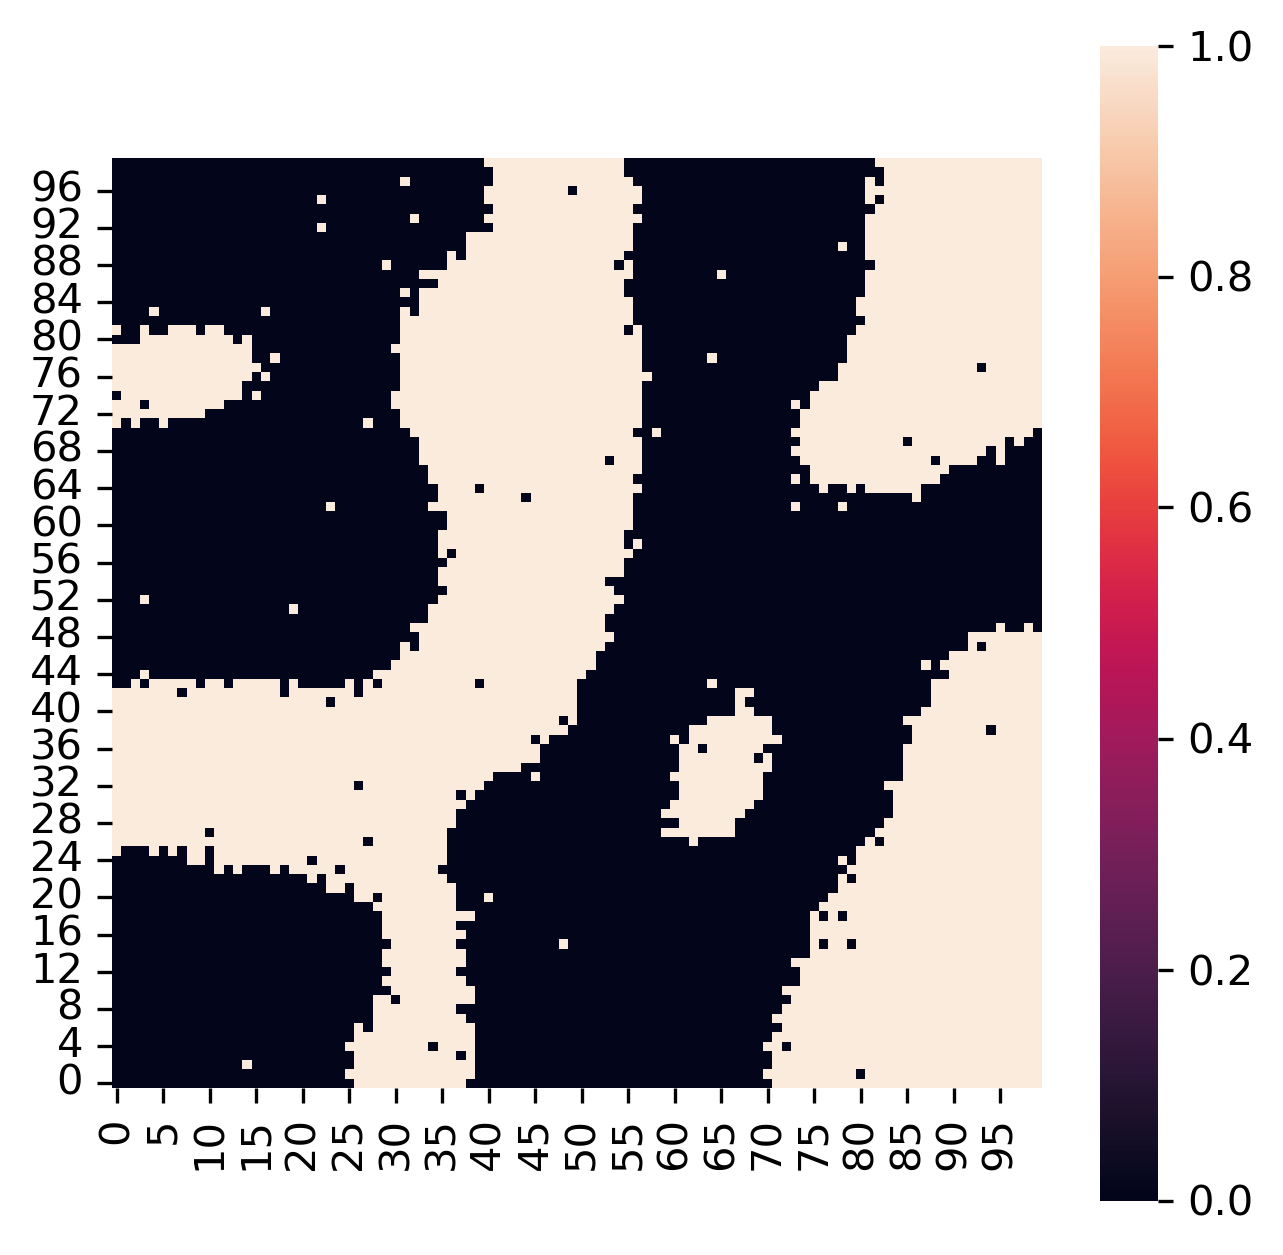
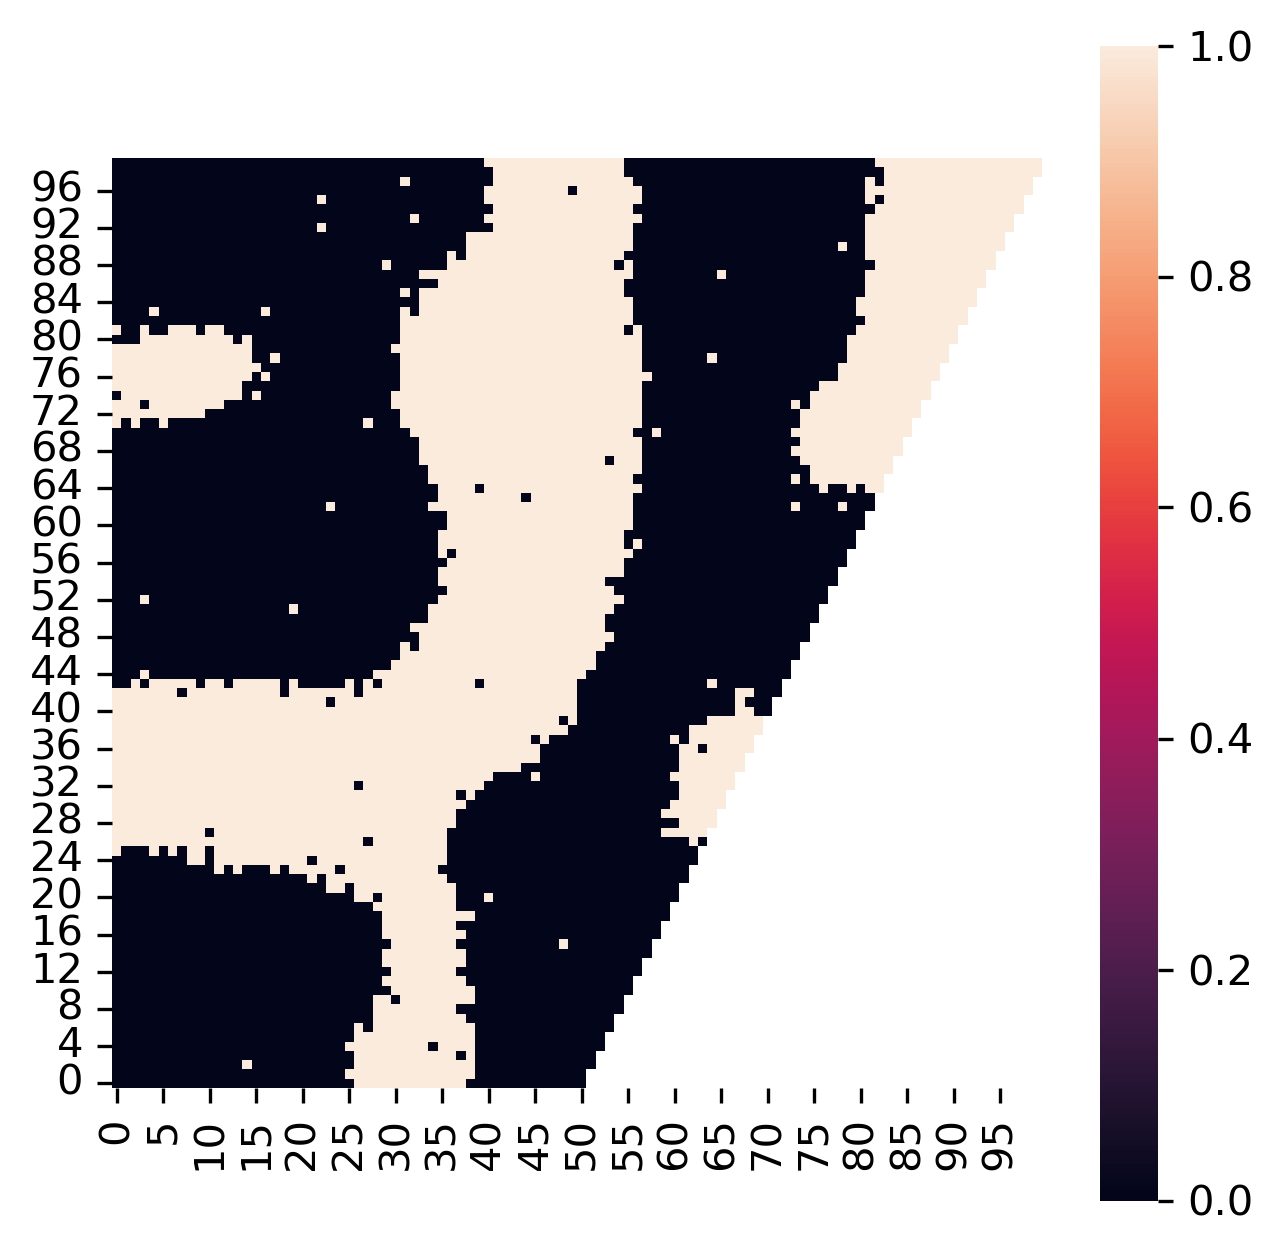
Fix bugs in Supp Figure 2

Changed region(s): [[0.4365, 0.1554, 0.8106, 0.8701]]

diff --git a/supp_figures/SFig2/SFig2.py b/supp_figures/SFig2/SFig2.py
@@ -13,6 +13,22 @@ script_dir = os.path.dirname(os.path.abspath(__file__))
 
 import simspace as ss
 
+
+def plot_niche_with_tissue_mask(sim, outside_tissue, figsize=(5, 5), dpi=150):
+    """Plot niche labels only on the lattice sites retained in the tissue."""
+    outside_tissue = np.asarray(outside_tissue, dtype=bool)
+    if outside_tissue.shape != sim.niche.shape:
+        raise ValueError("The tissue mask and niche grid must have the same shape.")
+    if np.any(sim.grid[outside_tissue] >= 0):
+        raise ValueError("The tissue mask excludes lattice sites that still contain cells.")
+
+    plt.figure(figsize=figsize, dpi=dpi)
+    sns.heatmap(sim.niche, mask=outside_tissue)
+    plt.gca().set_aspect('equal')
+    plt.gca().invert_yaxis()
+    plt.show()
+
+
 ########### Panel A:
 shape = (100, 100)
 param_1 = ss.util.generate_random_parameters(n_group=2, n_state=7, seed=1)
@@ -59,8 +75,10 @@ Sim.density_sampler(density_replicates) # Cell density of each niche # type: ign
 Sim.perturbation(step = 0.2)
 Sim.plot(figsize=(5, 5), dpi=300, size=14)
 plt.savefig(os.path.join(script_dir, 'SFig2_panel_A1.png'), bbox_inches='tight', dpi=300)
-Sim.plot_niche(figsize=(5, 5), dpi=300)
+plt.close()
+plot_niche_with_tissue_mask(Sim, boundary_mask, figsize=(5, 5), dpi=300)
 plt.savefig(os.path.join(script_dir, 'SFig2_panel_A2.png'), bbox_inches='tight', dpi=300)
+plt.close()
 
 shape = (100, 100)
 param_1 = ss.util.generate_random_parameters(n_group=4, n_state=10, seed=42)
@@ -107,8 +125,10 @@ Sim.density_sampler(density_replicates)  # Cell density of each niche # type: ig
 Sim.perturbation(step = 0.2)
 Sim.plot(figsize=(5, 5), dpi=250, size=14)
 plt.savefig(os.path.join(script_dir, 'SFig2_panel_A3.png'), bbox_inches='tight', dpi=300)
+plt.close()
 Sim.plot_niche(figsize=(5, 5), dpi=300)
 plt.savefig(os.path.join(script_dir, 'SFig2_panel_A4.png'), bbox_inches='tight', dpi=300)
+plt.close()
 
 shape = (100, 100)
 param_1 = ss.util.generate_random_parameters(n_group=4, n_state=12, seed=42)
@@ -164,8 +184,10 @@ Sim.density_sampler(density_replicates)  # Cell density of each niche # type: ig
 Sim.perturbation(step = 0.2)
 Sim.plot(figsize=(5, 5), dpi=250, size=14)
 plt.savefig(os.path.join(script_dir, 'SFig2_panel_A5.png'), bbox_inches='tight', dpi=300)
-Sim.plot_niche(figsize=(5, 5), dpi=300)
+plt.close()
+plot_niche_with_tissue_mask(Sim, boundary_mask, figsize=(5, 5), dpi=300)
 plt.savefig(os.path.join(script_dir, 'SFig2_panel_A6.png'), bbox_inches='tight', dpi=300)
+plt.close()
 
 ########### Panel B:
 Sim.create_omics(n_genes=1000, bg_ratio=0.2, bg_param = (1, 0.5), marker_param = (3.5, 1.6), spatial=False)

diff --git a/supp_figures/SFig2/SFig2_README.md b/supp_figures/SFig2/SFig2_README.md
@@ -13,7 +13,7 @@ This folder contains everything needed to reproduce the code-generated panels in
   Inputs and/or cached intermediates required for **Panel D**.
 
 - `Panel_E_F_data/`  
-  Inputs and/or cached intermediates required for **Panel D**.
+  Inputs and/or cached intermediates required for **Panels E and F**.
 ---
 
 ## Environment
@@ -39,6 +39,33 @@ Or from this directory:
 ```bash
 python SFig2.py
 ```
+
+---
+
+## Panel A provenance and paired plots
+
+Panel A contains three paired examples. Files `A1`, `A3`, and `A5` show sampled
+cell states; files `A2`, `A4`, and `A6` show the corresponding spatial-domain
+labels from the same `SimSpace` objects.
+
+- `A1/A2`: two MRF-generated domains, seven cell states, parameter seed 1,
+  simulation seed 42, and a user-defined trapezoid tissue mask.
+- `A3/A4`: four manually defined rectangular domains, ten cell states,
+  parameter and simulation seed 42, and the full 100-by-100 lattice.
+- `A5/A6`: four manually defined elliptical domains, twelve cell states,
+  parameter and simulation seed 42, and a noisy user-defined tissue boundary.
+
+The custom tissue masks are applied both to the cell-state grid and to the paired
+domain rendering. This is important because `SimSpace.plot_niche()` displays the
+entire lattice by default, including niche labels outside a custom tissue
+boundary. The local `plot_niche_with_tissue_mask()` helper prevents those
+out-of-tissue labels from appearing in `A2` and `A6`.
+
+The first example is distinct from Figure 1B: it uses randomly generated
+parameters for seven cell states and a trapezoid tissue mask, whereas Figure 1B
+uses fitted parameters for nine cell states on the full lattice. Both use
+simulation seed 42, which can make their initial two-domain MRF scaffolds appear
+similar even though their parameters and resulting niche-label arrays differ.
 
 ---
 
